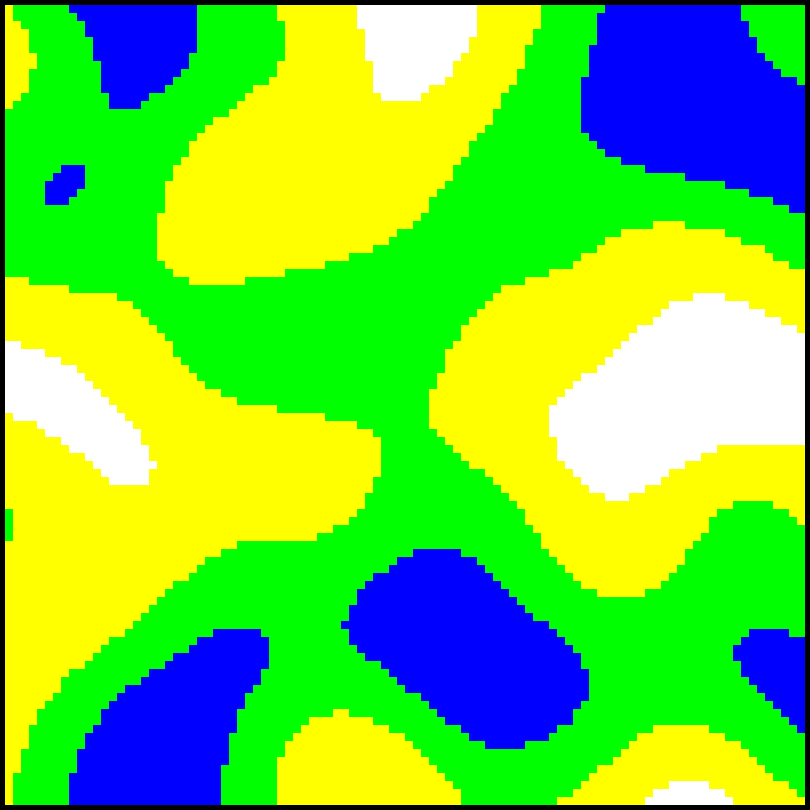
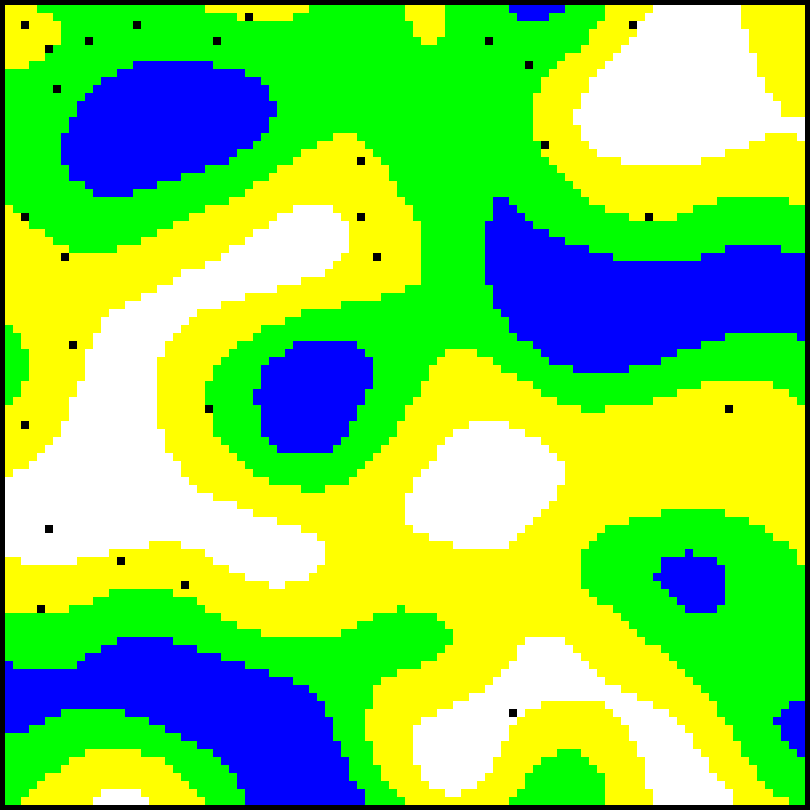
new commit

diff --git a/t_map.py b/t_map.py
@@ -30,17 +30,20 @@ def display_map_im(im,h,w):
 				draw_tile(im,y,x,0x00ffff)	
 			elif map[y][x] == 4:
 				draw_tile(im,y,x,0xffffff)	
+			elif map[y][x] == 0:
+				draw_tile(im,y,x,0)	
+
 
 ###################################################################################
 
 def gen_map(h,w):
 	r = random.random() * 65536
-	noise = PerlinNoise(octaves=3,seed=r)
+	noise = PerlinNoise(octaves=4,seed=r)
 	for y in range(h):
 		for x in range(w):
 
 			n = math.floor(noise([x/w, y/h]) * 5)
-			print("[%d %d]: %f" % (y,x,n))
+#			print("[%d %d]: %f" % (y,x,n))
 			if n <= -2:
 				map[y][x] = 1
 			elif n == -1:
@@ -53,11 +56,88 @@ def gen_map(h,w):
 
 ###################################################################################
 
+def draw_box_im(im,y,x,h,w):
+	draw = ImageDraw.Draw(im)
+	xx = (x*tile_w)+offset_x
+	yy = (y*tile_h)+offset_y
+	hh = h*tile_h
+	ww = w*tile_w
+	draw.rectangle([xx,yy,xx+ww,yy+hh],outline=0x0000ff,width=1)
+	
+	
+def check_pos_tile(y,x):
+		if map[y][x] != 1 and map[y+1][x] != 1 and map[y-1][x] != 1 and map[y][x+1] != 1 and map[y][x-1] != 1 and map[y-1][x-1] != 1 and map[y+1][x+1] != 1 and map[y-1][x+1] != 1 and map[y+1][x-1] != 1:
+			return 1
+		else:
+			return 0
 
+
+
+
+
+def divide_box(im,y,x,h,w,c,count):
+#	draw_box_im(im,y,x,h,w)
+	
+	if count == 0:
+		new_y = int(y + (random.random()*(h-4))) + 2
+		new_x = int(x + (random.random()*(w-4))) + 2
+		#print("map: [%d %d] %d" % (new_y,new_x,map[new_y][new_x]))
+		
+
+		if check_pos_tile(new_y,new_x):
+			map[new_y][new_x] = 0
+			#draw_tile(im,new_y,new_x,0)
+		return 0
+	
+	if c == 0:   # horizontal
+		new_h = random.randint(int(h/5),int(h/2))
+
+		new_pos1 = [y,x]
+		new_size1 = [new_h,w]
+		
+		new_pos2 = [y+(new_h),x]
+		new_size2 = [(h-new_h),w]
+
+		y1 = new_pos1[0] + (new_size1[0]/2)
+		x1 = new_pos1[1] + (new_size1[1]/2)
+		
+		y2 = new_pos2[0] + (new_size2[0]/2)
+		x2 = new_pos2[1] + (new_size2[1]/2)
+	
+		divide_box(im,new_pos1[0],new_pos1[1],new_size1[0],new_size1[1],1,count-1)
+		divide_box(im,new_pos2[0],new_pos2[1],new_size2[0],new_size2[1],1,count-1)
+		
+	else:        # vertical
+		new_w = random.randint(int(w/5),int(w/2))
+
+
+
+		new_pos1 = [y,x]
+		new_size1 = [h,new_w]
+		
+		new_pos2 = [y,x+new_w]
+		new_size2 = [h,w-new_w]
+		
+		y1 = new_pos1[0] + (new_size1[0]/2)
+		x1 = new_pos1[1] + (new_size1[1]/2)
+		
+		y2 = new_pos2[0] + (new_size2[0]/2)
+		x2 = new_pos2[1] + (new_size2[1]/2)
+
+		divide_box(im,new_pos1[0],new_pos1[1],new_size1[0],new_size1[1],0,count-1)
+		divide_box(im,new_pos2[0],new_pos2[1],new_size2[0],new_size2[1],0,count-1)		
+
+	return 0
+	
+	
+
+###################################################################################
 
 im = Image.new('RGB', ((8*100)+10,(8*100)+10))
 gen_map(100,100)
+divide_box(im,0,0,100,100,random.randint(0,1),5)
 display_map_im(im,100,100)
+
 im.save("map.png", "PNG")
 im.show()
 

diff --git a/test2.py b/test2.py
@@ -1,0 +1,32 @@
+import random
+from PIL import Image, ImageDraw
+
+offset_y = 5
+offset_x = 5
+tile_w = 8
+tile_h = 8
+win = 0
+im = 0
+
+map = [[0 for x in range(100)] for y in range(100)]
+
+
+###################################################################################
+def draw_tile(im,y,x,fill):
+	draw = ImageDraw.Draw(im)
+	draw.rectangle([x*tile_w+offset_x,y*tile_h+offset_y,((x+1)*tile_w)-1+offset_x,((y+1)*tile_h)-1+offset_y],fill,width=1)
+
+def display_map_im(im,h,w):	
+	for y in range(0,h):
+		for x in range(0,w):
+			if map[y][x] == 1:
+				draw_tile(im,y,x,0xffffff)
+			elif map[y][x] == 2:
+				draw_tile(im,y,x,0xff0000)			
+###################################################################################
+
+
+im = Image.new('RGB', ((8*100)+10,(8*100)+10))
+
+display_map_im(im,100,100)
+im.save("test2.png", "PNG")
